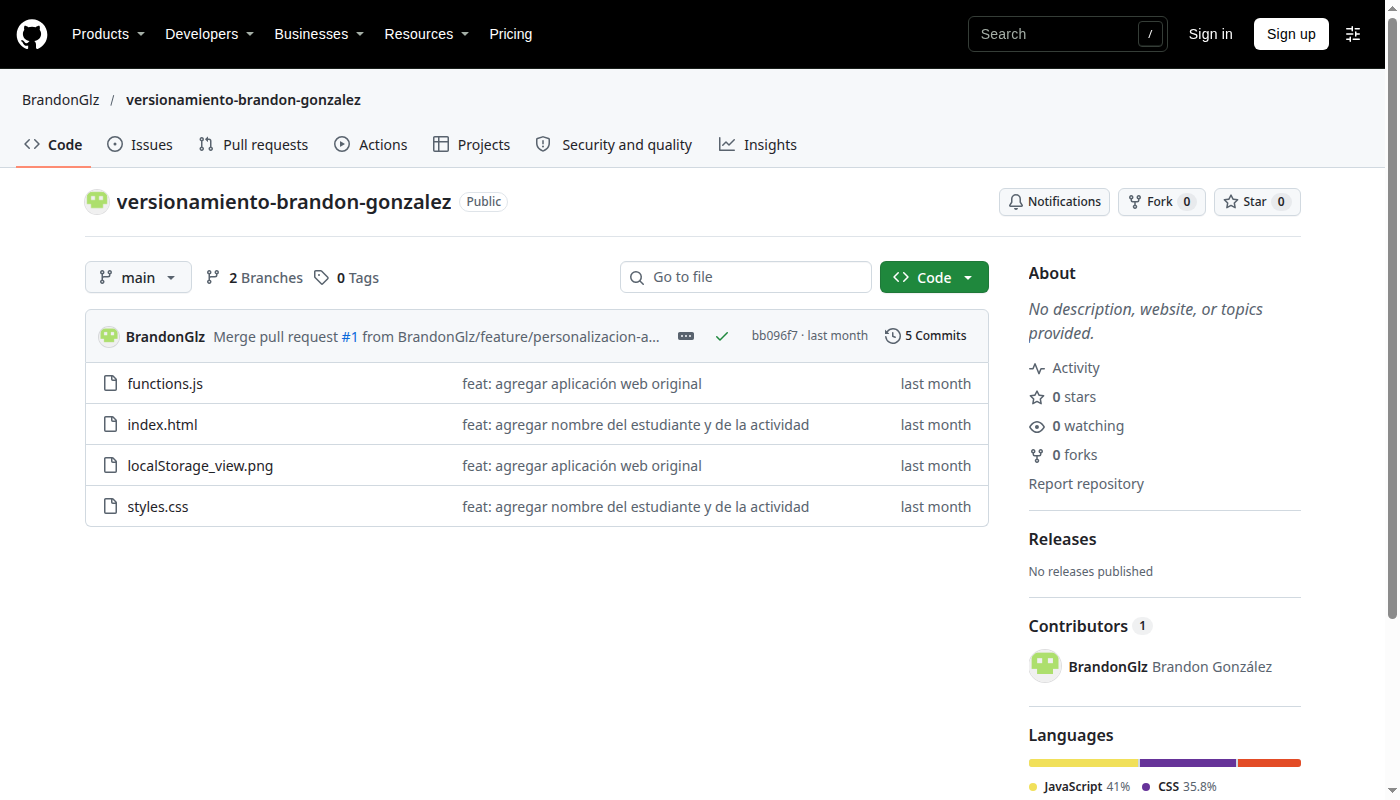
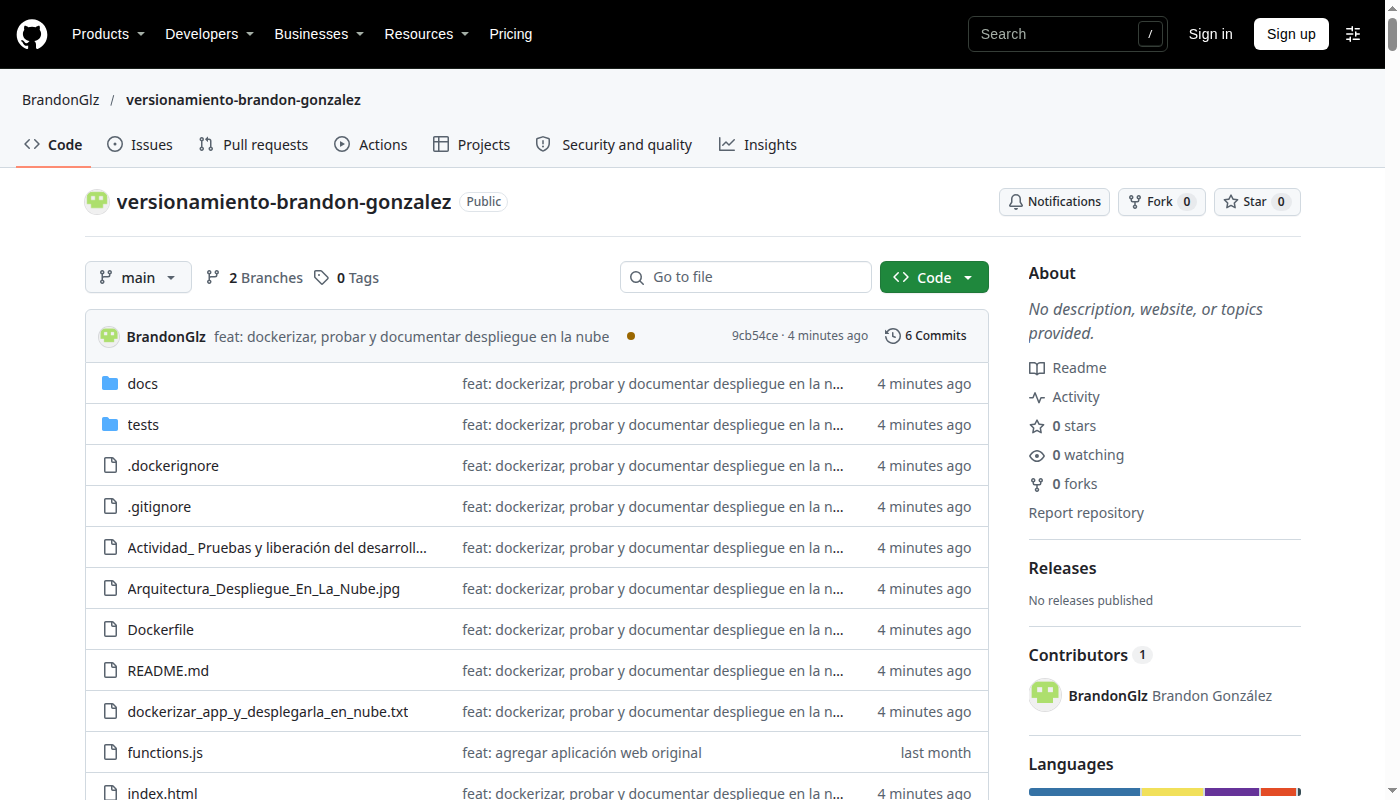
docs: actualizar estado y evidencia de GitHub

diff --git a/README.md b/README.md
@@ -60,7 +60,7 @@ Flujo:
 | 0 | README con materiales y plan de trabajo | Completado |
 | 1 | Pruebas funcionales manuales (mínimo 2) | Completado (4 pruebas) |
 | 2 | Contenerización con Docker | Completado (build + run local) |
-| 3 | Publicación en GitHub | Pendiente (token actual inválido) |
+| 3 | Publicación en GitHub | Completado (commit `9cb54ce` publicado) |
 | 4 | Despliegue en Render.com | Pendiente (requiere cuenta/URL) |
 | 5 | Pruebas automatizadas con Selenium (mínimo 2) | 3 aprobadas en local; pendiente contra Render |
 | 6 | Documentación en `docs/` (mínimo 2 páginas) | Completado (MD, DOCX y PDF) |
@@ -254,11 +254,11 @@ git push -u origin feature/mi-cambio
 
 ### Checklist de validación en GitHub
 
-- [ ] El repositorio contiene `index.html`, `styles.css`, `functions.js`, `Dockerfile` y `README.md`.
-- [ ] El historial de commits refleja el trabajo realizado.
-- [ ] El `README.md` describe el proyecto y los pasos de despliegue.
-- [ ] No se exponen credenciales ni tokens en el repositorio.
-- [ ] Se captura evidencia del repositorio (`docs/img/06-github-repo.png`).
+- [x] El repositorio contiene `index.html`, `styles.css`, `functions.js`, `Dockerfile` y `README.md`.
+- [x] El historial de commits refleja el trabajo realizado.
+- [x] El `README.md` describe el proyecto y los pasos de despliegue.
+- [x] No se exponen credenciales ni tokens en el repositorio.
+- [x] Se captura evidencia del repositorio (`docs/img/06-github-repo.png`).
 
 ---
 
@@ -523,7 +523,7 @@ docs/
 | `docs/img/03-manual-eliminar.png` | Prueba manual: eliminar producto | Completado |
 | `docs/img/04-manual-validacion.png` | Prueba manual: validación de datos | Completado |
 | `docs/img/05-manual-persistencia.png` | Prueba manual: persistencia tras recarga | Completado |
-| `docs/img/06-github-repo.png` | Repositorio en GitHub | Capturado (estado actual) |
+| `docs/img/06-github-repo.png` | Repositorio en GitHub | Completado |
 | `docs/img/07-docker-build.png` | Construcción de la imagen Docker | Completado |
 | `docs/img/08-docker-run.png` | Contenedor en ejecución | Completado |
 | `docs/img/09-render-servicio.png` | Servicio configurado en Render | Pendiente |
@@ -537,7 +537,7 @@ docs/
 - [x] Aplicación validada con al menos 2 pruebas manuales documentadas (4 realizadas).
 - [x] `Dockerfile` y `.dockerignore` creados y probados.
 - [x] Imagen Docker construida y contenedor verificado en local.
-- [ ] Código y Dockerfile subidos a GitHub (requiere credenciales válidas).
+- [x] Código y Dockerfile subidos a GitHub.
 - [ ] Servicio creado en Render y estado **Live**.
 - [ ] URL pública funcionando.
 - [ ] Al menos 2 pruebas Selenium ejecutadas contra la URL pública (3 aprobadas en local).
@@ -606,6 +606,14 @@ docs/
 - **Problema encontrado:** La portada inicial mostraba el centro negro porque el PNG de fondo tenía transparencia.
 - **Solución:** Se compuso el fondo sobre un lienzo blanco antes de dibujar el texto.
 - **Aprendizaje:** Es importante verificar la transparencia de las imágenes al generar documentos y PDF.
+
+### 2026-11-03 — Publicación en GitHub
+
+- **Qué hice:** Se publicó el commit `9cb54ce` en la rama `main` del repositorio remoto.
+- **Comando / código clave:** `git push origin main`
+- **Problema encontrado:** El token anterior del remoto había sido revocado (HTTP 401).
+- **Solución:** Se configuró el remoto sin token y se autenticó el push con un token válido de forma temporal, sin almacenarlo en el repositorio.
+- **Aprendizaje:** Nunca deben guardarse tokens en la URL del remoto ni en archivos versionados; conviene usar SSH o un credential helper.
 
 ### 2026-11-03 — Despliegue en Render (pendiente)
 
